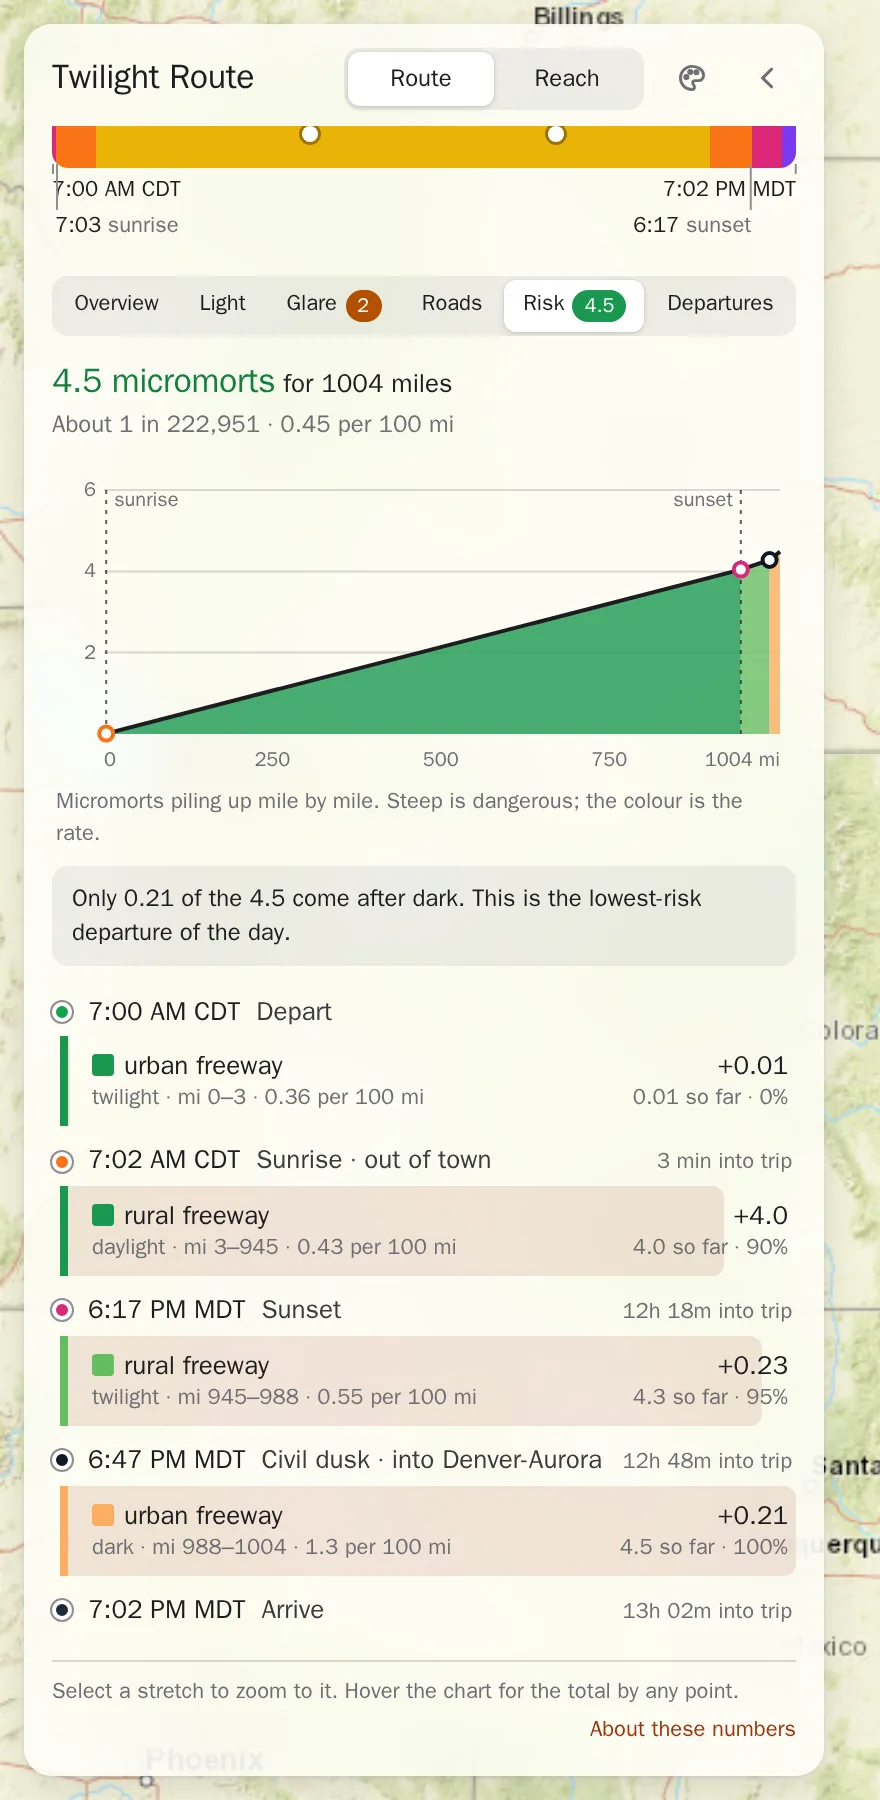
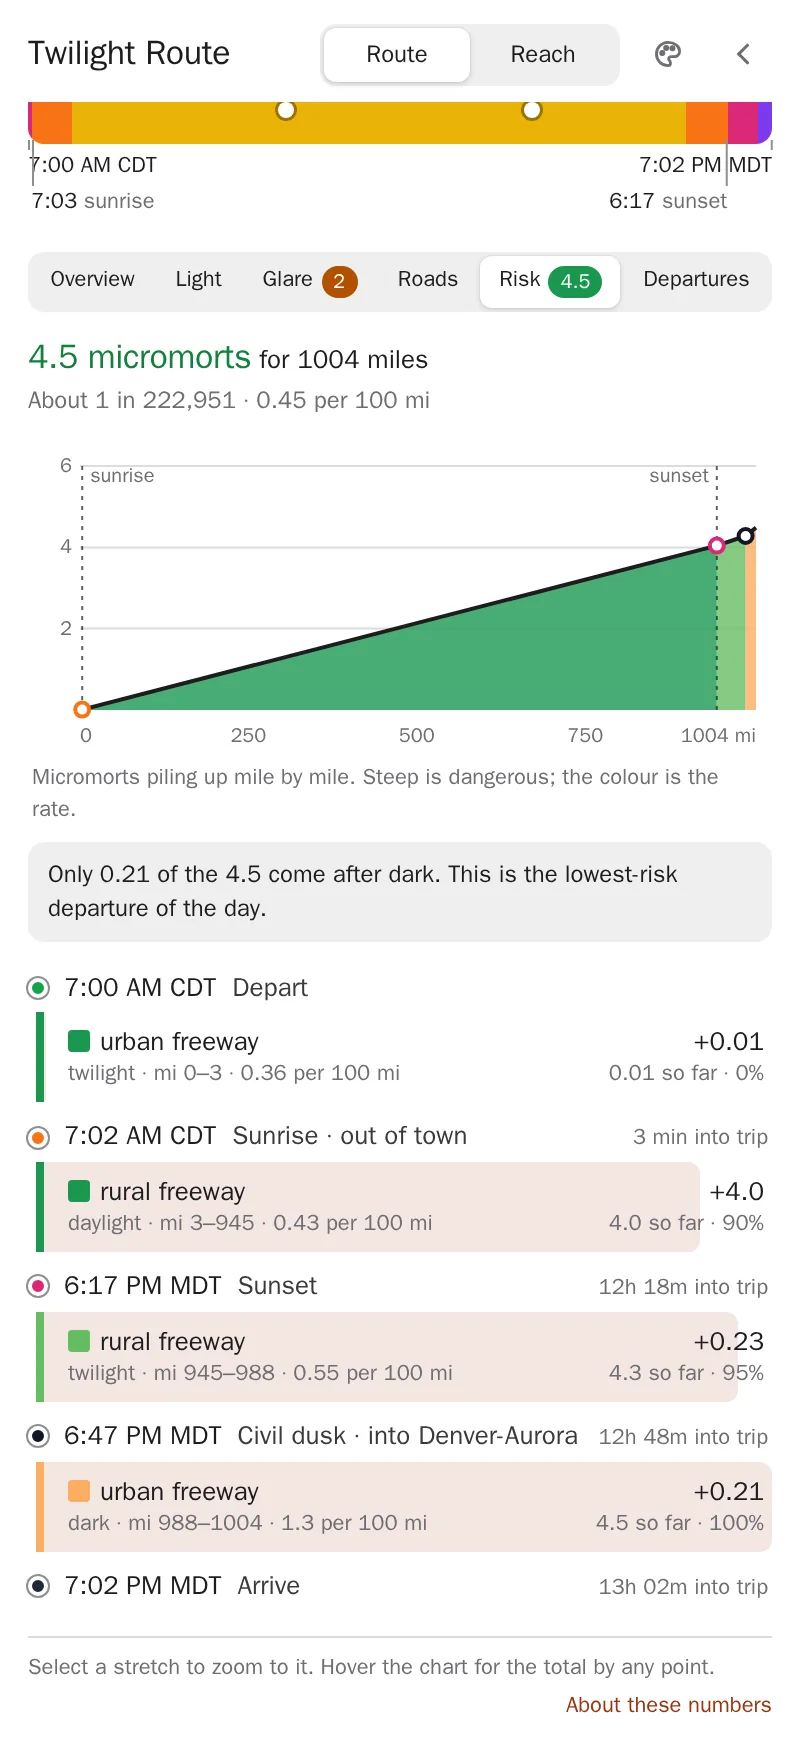
Panel-only feature screenshots (twilight-route 4abba49)

Changed region(s): [[0.0, 0.0, 1.0, 1.0], [0.0625, 0.4932, 0.8438, 0.524], [0.4062, 0.339, 0.5625, 0.3699]]

diff --git a/index.html b/index.html
@@ -181,7 +181,7 @@
       <p>A low sun close to straight ahead is the glare that hides brake lights and lane lines. Twilight Route finds every stretch where the sun is under 15 degrees and within 25 degrees of your heading, and shows it on the map with the view ahead.</p>
       <p class="example">Leaving Dallas at 5 AM on I-20, the sun sits low in the windshield for 1 hour 11 minutes across Louisiana.</p>
     </div>
-    <figure class="shot tall"><img src="img/glare.webp" width="880" height="1800" alt="The Glare tab for Dallas to Atlanta: a stretch of I-20 in Louisiana highlighted where the rising sun is ahead, and a chart of the sun's height and direction." loading="lazy"><figcaption>Dallas to Atlanta at 5 AM, the Glare tab.</figcaption></figure>
+    <figure class="shot tall"><img src="img/glare.webp" width="800" height="1752" alt="The Glare tab for Dallas to Atlanta: a stretch of I-20 in Louisiana highlighted where the rising sun is ahead, and a chart of the sun's height and direction." loading="lazy"><figcaption>Dallas to Atlanta at 5 AM, the Glare tab.</figcaption></figure>
   </div>
 </section>
 
@@ -192,7 +192,7 @@
       <p>Each mile gets a fatality rate for its setting (rural or urban), the kind of road, and whether you drive it in daylight, twilight or dark. The Risk tab adds them up as you go, in micromorts: one-in-a-million chances.</p>
       <p class="example">Chicago to Denver at 7 AM: 4.5 micromorts over 1,004 miles, about a 1 in 223,000 chance. Only 0.21 of it comes after dark, which makes 7 AM the lowest-risk hour of the day to leave.</p>
     </div>
-    <figure class="shot tall"><img src="img/risk.webp" width="880" height="1800" alt="The Risk tab for Chicago to Denver: 4.5 micromorts for 1,004 miles, and a chart of the risk adding up mile by mile." loading="lazy"><figcaption>Chicago to Denver, the Risk tab.</figcaption></figure>
+    <figure class="shot tall"><img src="img/risk.webp" width="800" height="1752" alt="The Risk tab for Chicago to Denver: 4.5 micromorts for 1,004 miles, and a chart of the risk adding up mile by mile." loading="lazy"><figcaption>Chicago to Denver, the Risk tab.</figcaption></figure>
   </div>
 </section>
 
@@ -203,7 +203,7 @@
       <p>The same drive, leaving at every hour of the day, side by side: how much of it is after dark, how long the sun is in your eyes, and the risk. Pick a row and the whole plan moves to that time.</p>
       <p class="example">For Chicago to Denver, 7 AM is the best hour of the day. Leaving at 6 PM instead puts most of Nebraska in the dark and the risk at 26 micromorts.</p>
     </div>
-    <figure class="shot tall"><img src="img/departures.webp" width="880" height="1800" alt="The Departures tab: one row per departure hour, each with its light, glare and risk." loading="lazy"><figcaption>Chicago to Denver, the Departures tab.</figcaption></figure>
+    <figure class="shot tall"><img src="img/departures.webp" width="800" height="1752" alt="The Departures tab: one row per departure hour, each with its light, glare and risk." loading="lazy"><figcaption>Chicago to Denver, the Departures tab.</figcaption></figure>
   </div>
 </section>
 
